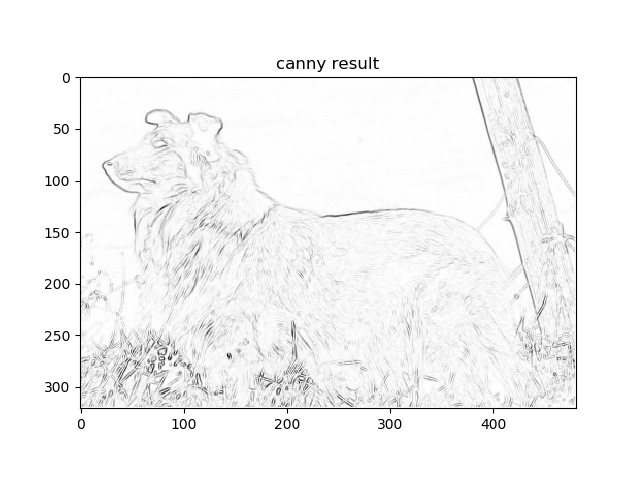
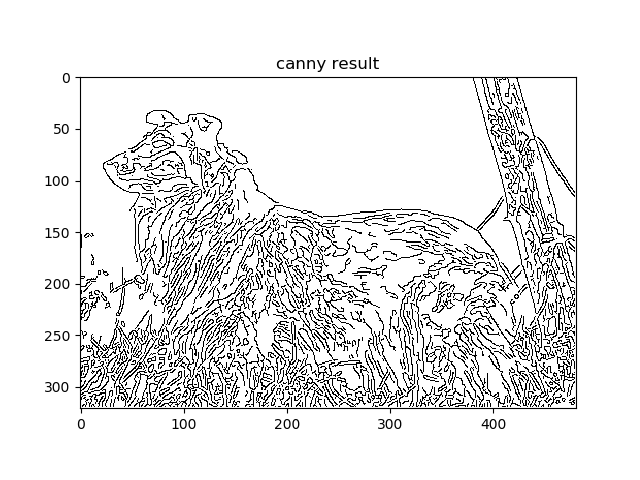
fix previous overwrite

Changed region(s): [[0.125, 0.1562, 0.9062, 0.8438], [0.875, 0.375, 0.9062, 0.4062]]

diff --git a/testing.py b/testing.py
@@ -27,7 +27,7 @@ prewitt_result = prewitt(img)
 canny_result = canny(img)
 
 for _str,result in [('sobel',sobel_result),('scharr',scharr_result),('prewitt',prewitt_result),('canny',canny_result)]:
-    plt.imshow(sobel_result,cmap='Greys')
+    plt.imshow(result,cmap='Greys')
     plt.title(_str+' result')
     plt.show()
 
